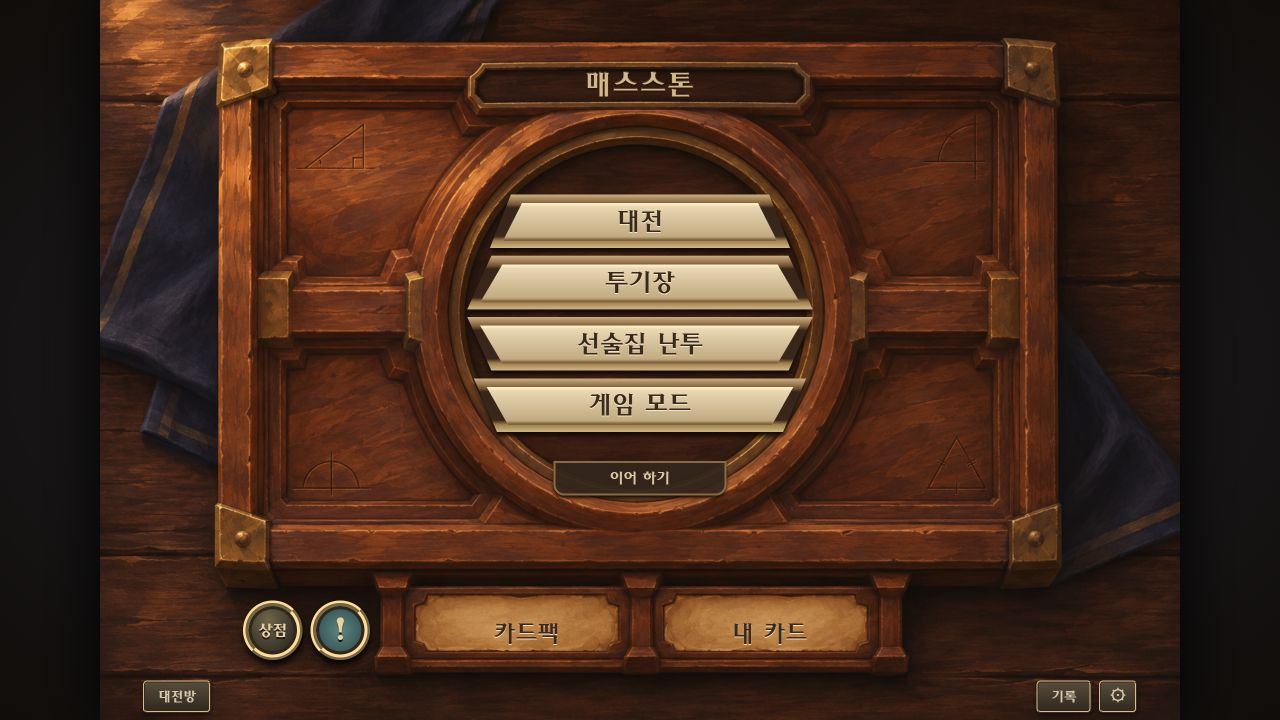
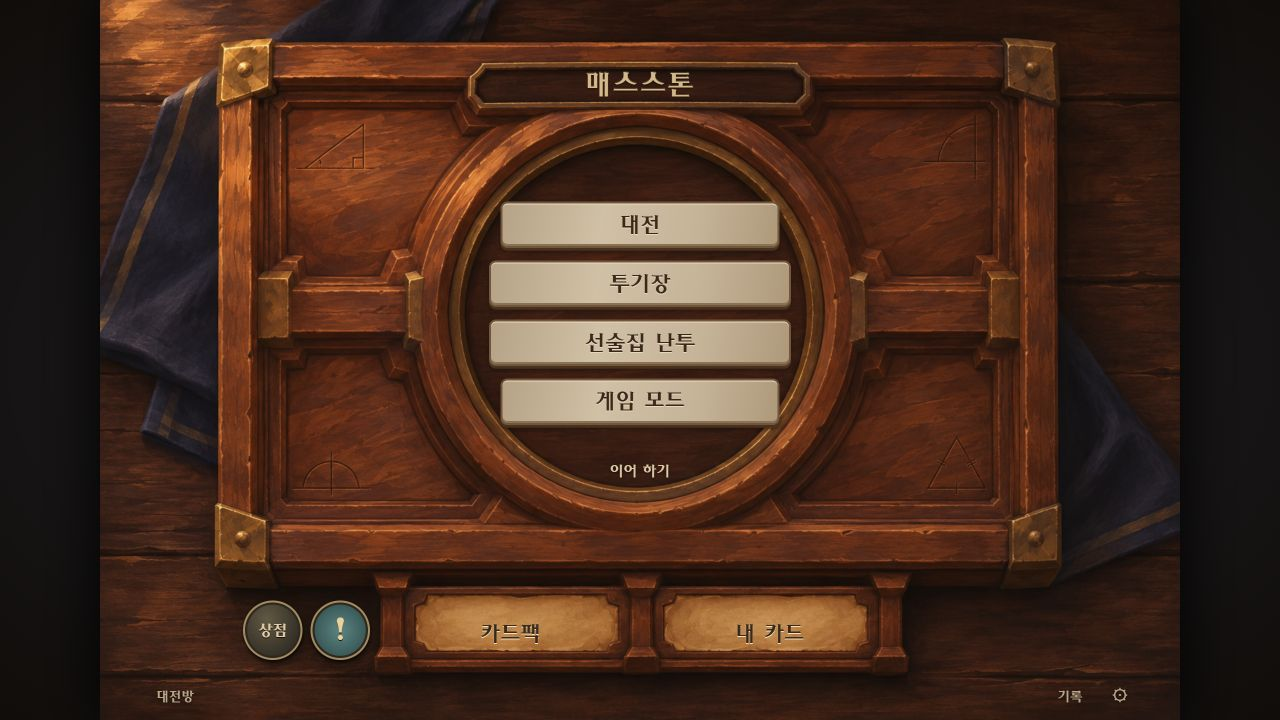
fix(ui): 메뉴 버튼의 두꺼운 테두리를 걷어내고 간격 정렬

diff --git a/src/menus.css b/src/menus.css
@@ -34,11 +34,11 @@
 .quest-scroll .quest-objective{font:1.25cqw/1.6 var(--sans);margin:0 0 .5cqw;color:#654323}.quest-scroll:has(.quest-objective) h2{margin:.5cqw 0}
 .help-copy details{border-top:1px solid #846238;padding:12px 0}.help-copy summary{cursor:pointer;font:18px var(--display);color:#efd5a1}.help-copy p{font:14px/1.8 var(--sans);max-width:54ch;margin:12px 0;color:#dbc7a6}.help-copy .help-goal{color:#f3dfb8;margin:14px 0 22px}
 @media(max-width:650px){.quest-scroll .quest-objective{font-size:2.8cqw}.deck-recipes{grid-template-columns:1fr}}
-.hub-shop,.hub-rewards{position:absolute;top:83%;width:7.5%;height:11%;border:.55cqw ridge var(--hub-highlight);border-radius:50%;background:radial-gradient(ellipse at 40% 30%,#70654b,#302d25 75%);color:#ebd5a8;font:1.7cqw var(--display);text-shadow:0 2px #1e130a;box-shadow:0 .5cqw .5cqw #0009,inset 0 0 0 .3cqw #30271c}
+.hub-shop,.hub-rewards{position:absolute;border:.2cqw solid #a28a61;border-radius:50%;background:radial-gradient(ellipse at 40% 30%,#625944,#302d25 75%);color:#dfcda9;font:1.7cqw var(--display);text-shadow:0 1px #1e130a;box-shadow:0 .2cqw .3cqw #0009,inset 0 0 0 .2cqw #30271c}
 .hub-shop{left:13.25%;width:5.5%;height:8.25%;top:83.4%;font-size:1.5cqw}.hub-rewards{left:19.5%;width:5.5%;height:8.25%;top:83.4%;background:radial-gradient(#5d8582,#284345)}.hub-rewards span{font:900 3cqw var(--numbers);color:#ead29d}.hub-shop:hover,.hub-rewards:hover{filter:brightness(1.18)}
-.hub-resume{position:absolute;top:64%;left:42%;width:16%;min-height:3.2cqw;background:#33251be8;border:.2cqw solid #896b43;border-radius:0 0 1cqw 1cqw;padding:.5cqw;font:1.4cqw var(--display);color:#dcc9a5;box-shadow:0 .2cqw .3cqw #120a08}
-.hub-chest .hub-utilities{left:4%;right:4%;top:auto;bottom:1%;gap:.7cqw;justify-content:flex-end}.hub-chest .hub-utilities button{min-height:3cqw;border:.2cqw ridge #897457;border-radius:.4cqw;background:linear-gradient(#574b3b,#302920);color:#d6c8aa;font:1.3cqw var(--display);padding:.45cqw 1.2cqw;box-shadow:0 .2cqw .4cqw #0007}.hub-chest .hub-utilities button:first-child{margin-right:auto}.hub-chest .hub-utilities button:last-child{font:1.8cqw/1 var(--sans);padding:.2cqw .8cqw}.hub-chest .hub-utilities button:hover{filter:brightness(1.2)}
-@media(max-width:650px) and (orientation:portrait){.hub-chest{min-height:560px;aspect-ratio:auto}.hub-actions{left:33%;right:33%;top:26%;height:35.5%;gap:6px}.hub-actions button{font-size:clamp(15px,3.2vw,18px)}.hub-actions button:after{inset:7px 11px 6px}.hub-actions button:first-child{margin-inline:10px}.hub-chest h1{font-size:23px;left:25%;right:25%}.hub-resume{left:35%;width:30%;font-size:15px;min-height:34px}.hub-plaque{font-size:14px}.hub-shop{font-size:clamp(9px,2vw,12px);padding:0}.hub-rewards{padding:0}.hub-rewards span{font-size:20px}.hub-chest .hub-utilities button{min-height:36px;font-size:13px;padding:5px 10px}.hub-chest .hub-utilities button:last-child{font-size:21px}}
+.hub-resume{position:absolute;top:63%;left:42%;width:16%;min-height:3.2cqw;background:none;border:0;padding:.5cqw;font:1.4cqw var(--display);color:#dcc9a5;text-shadow:0 1px 3px #160d08}.hub-resume:hover{color:#fff0cf}
+.hub-chest .hub-utilities{left:4%;right:4%;top:auto;bottom:1%;gap:.7cqw;justify-content:flex-end}.hub-chest .hub-utilities button{min-height:3cqw;border:0;border-radius:0;background:none;color:#b8a68a;font:1.3cqw var(--display);padding:.45cqw 1.2cqw;box-shadow:none;text-shadow:0 1px 3px #160d08}.hub-chest .hub-utilities button:first-child{margin-right:auto}.hub-chest .hub-utilities button:last-child{font:1.8cqw/1 var(--sans);padding:.2cqw .8cqw}.hub-chest .hub-utilities button:hover{color:#f2dfbc}
+@media(max-width:650px) and (orientation:portrait){.hub-chest{min-height:560px;aspect-ratio:auto}.hub-actions{left:33%;right:33%;top:26%;height:35.5%;gap:6px}.hub-actions button{font-size:clamp(15px,3.2vw,18px);border-width:1px;border-radius:5px}.hub-actions button:first-child,.hub-actions button:last-child{margin-inline:6px}.hub-chest h1{font-size:23px;left:25%;right:25%}.hub-resume{left:35%;width:30%;font-size:15px;min-height:34px}.hub-plaque{font-size:14px}.hub-shop{font-size:clamp(9px,2vw,12px);padding:0}.hub-rewards{padding:0}.hub-rewards span{font-size:20px}.hub-chest .hub-utilities button{min-height:36px;font-size:13px;padding:5px 10px}.hub-chest .hub-utilities button:last-child{font-size:21px}}
 .cabinet-stage{min-height:100dvh;display:grid;place-items:center;background:radial-gradient(#352718,#100b08)}
 .game-cabinet{container-type:inline-size;position:relative;width:min(100vw,150dvh);aspect-ratio:3/2;background:url('/public/art/deck-room.png') center/100% 100%;filter:drop-shadow(0 10px 30px #000)}
 .cabinet-title{position:absolute;top:3.4%;left:25%;width:26%;height:6%;display:grid;place-items:center;color:#492c15;text-shadow:0 1px #ffdf9e;font:2.35cqw var(--display)}

diff --git a/src/screens.css b/src/screens.css
@@ -6,14 +6,11 @@ dialog:has(.choice-cards) h2,dialog:has(.mulligan-cards) h2{text-shadow:0 3px 4p
 .hub-stage,.book-stage{min-height:100dvh;display:flex;align-items:center;justify-content:center;background:radial-gradient(#24232c,#100d0a)}
 .hub-chest{--hub-brass:#8c683d;--hub-highlight:#c8ac76;--hub-ink:#39291c;container-type:inline-size;position:relative;width:min(100vw,150dvh);aspect-ratio:3/2;background:url('/public/art/menu-chest.png') center/100% 100%;box-shadow:0 0 60px #000}
 .hub-chest h1{position:absolute;left:35%;right:35%;top:9%;height:5.5%;display:grid;place-items:center;font:900 2.7cqw var(--display);letter-spacing:.12cqw;text-align:center;color:#d3b88a;text-shadow:0 .15cqw .1cqw #261509,0 -.1cqw #f0dab333}
-.hub-actions{position:absolute;left:34%;right:34%;top:27%;height:33%;display:flex;flex-direction:column;gap:.7cqw}
-.hub-actions button{position:relative;isolation:isolate;flex:1;min-height:0;border:0;border-radius:0;background:none;box-shadow:none;font:900 2.4cqw/1 var(--display);color:var(--hub-ink);text-shadow:0 1px #f3e6c9;padding:.3cqw 2cqw;letter-spacing:0;filter:drop-shadow(0 .4cqw .2cqw #130a07)}
-.hub-actions button:before,.hub-actions button:after{content:'';position:absolute;z-index:-1;clip-path:polygon(7% 0,93% 0,100% 100%,0 100%);pointer-events:none}
-.hub-actions button:before{inset:0;background:linear-gradient(#cbb082 0%,#7b5835 18%,#37251b 25%,#39271b 78%,#9f7d4b 86%,#d0b783 100%)}
-.hub-actions button:after{inset:.8cqw 1.2cqw .65cqw;background:linear-gradient(#f1dfb9,#d6c29d 45%,#bea57b);box-shadow:inset 0 .2cqw .15cqw #fff0ca,inset 0 -.25cqw .2cqw #7c603d}
-.hub-actions button:first-child{margin-inline:2.1cqw}.hub-actions button:last-child{margin-inline:.6cqw}.hub-actions button:nth-child(n+3):before,.hub-actions button:nth-child(n+3):after{clip-path:polygon(0 0,100% 0,93% 100%,7% 100%)}
-.hub-actions button:hover,.hub-actions button:focus-visible{filter:brightness(1.13) drop-shadow(0 .4cqw .2cqw #130a07)}.hub-actions button:focus-visible{outline:2px solid #f2dfb0;outline-offset:4px}.hub-actions button:active{transform:translateY(.15cqw)}
-.hub-plaque{position:absolute;top:83%;height:10%;background:transparent;color:var(--hub-ink);text-shadow:0 .1cqw #f3dfbb;font:900 2.3cqw var(--display);padding:0}.hub-plaque.left{left:30%;width:19%}.hub-plaque.right{left:51%;width:22%}.hub-plaque:hover{color:#74532b;text-shadow:0 0 .7cqw #fff1bc}
+.hub-actions{position:absolute;left:36%;right:36%;top:28%;height:31%;display:flex;flex-direction:column;gap:1.15cqw}
+.hub-actions button{position:relative;flex:1;min-height:0;display:grid;place-items:center;border:.22cqw solid #71563b;border-radius:.65cqw;background:linear-gradient(100deg,#b6a387,#d0c0a5 36%,#c6b499 70%,#ae997a);box-shadow:inset 0 1px #ebddc5,inset 0 -2px #887355,0 .25cqw 0 #48311f,0 .4cqw .5cqw #170e0a9c;font:900 2.1cqw/1 var(--display);color:var(--hub-ink);text-shadow:0 1px #e7d7b9;padding:0 1cqw;letter-spacing:0;transition:filter .12s,transform .12s}
+.hub-actions button:first-child,.hub-actions button:last-child{margin-inline:1.1cqw}
+.hub-actions button:hover,.hub-actions button:focus-visible{filter:brightness(1.12)}.hub-actions button:focus-visible{outline:2px solid #f2dfb0;outline-offset:4px}.hub-actions button:active{transform:translateY(.15cqw)}
+.hub-plaque{position:absolute;top:83%;height:10%;background:transparent;color:var(--hub-ink);text-shadow:0 .1cqw #f3dfbb;font:900 2.1cqw var(--display);padding:0}.hub-plaque.left{left:27%;width:22%}.hub-plaque.right{left:51%;width:22%}.hub-plaque:hover{color:#74532b;text-shadow:0 0 .7cqw #fff1bc}
 .room-heading h1,.deck-box b,.hero-stand h2,.gold-button,.outline-button,.saved-deck h2,
 .card-rules b{font-weight:900}.minion .stat,.hero-health,.cost{font-family:'HS Belwe',Georgia,serif}
 body[data-view=setup]{background:#17100c}body[data-view=setup]:before{display:none}
